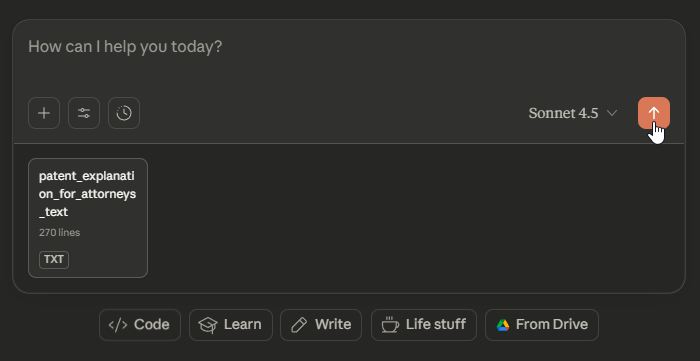
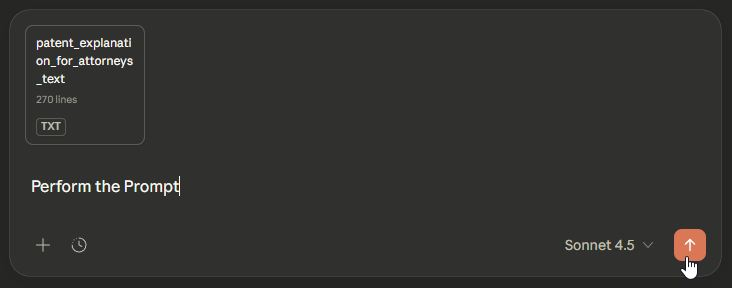
Fix Linux deployment: Add proxy env vars and improve documentation
- Fixed linux_setup.sh: Added PFW_PROXY_PORT and ENABLE_ALWAYS_ON_PROXY to env
- Fixed validation-helpers.sh: Simplified key detection to work across all MCPs
- Updated INSTALL.md: Improved Linux installation instructions with n8n examples
- Updated PROMPTS.md: Added 'Perform the Prompt' instruction (Step 5)
- Added n8n screenshots: n8n_PFW_1.jpg, n8n_PFW_2.jpg, n8n_PFW_3.jpg
- Updated Prompts-Step5.jpg to reflect new workflow

Bug fixes:
- Proxy server now starts correctly with proper port configuration
- Cross-MCP API key detection now works (reads files directly instead of Python imports)

diff --git a/INSTALL.md b/INSTALL.md
@@ -210,7 +210,7 @@ During the Windows setup, you'll be presented with two configuration methods:
 - ⚡ **Direct Python execution with built-in secure storage**
 - ✅ **No PowerShell execution policy requirements**
 
-**Example Configuration Generated:**
+**Example Quick Start Windows DPAPI Configuration Generated:**
 
 ```json
 {
@@ -220,7 +220,8 @@ During the Windows setup, you'll be presented with two configuration methods:
       "args": ["-m", "patent_filewrapper_mcp.main"],
       "cwd": "C:/Users/YOUR_USERNAME/uspto_pfw_mcp",
       "env": {
-        "PROXY_PORT": "8080"
+        "PROXY_PORT": "8080",
+        "INTERNAL_AUTH_SECRET": "[RANDOM GENERATED SHARED SECRET ACROSS ALL AUTHOR'S USPTO MCPS]"
       }
     }
   }
@@ -234,7 +235,7 @@ During the Windows setup, you'll be presented with two configuration methods:
 - ⚡ **Direct Python execution**
 - ✅ **Simpler setup**
 
-**Example Configuration Generated:**
+**Example Quick Start Windows Traditional Configuration Generated:**
 
 ```json
 {
@@ -428,7 +429,7 @@ Checking MCP server health...
 uspto_pfw: uv --directory /USER/uspto_pfw_mcp run patent-filewrapper-mcp - ✓ Connected
 ```
 
-**Example Configuration Generated:**
+**Example Quick Start Linux Configuration Generated:**
 
 ```json
 {
@@ -443,9 +444,8 @@ uspto_pfw: uv --directory /USER/uspto_pfw_mcp run patent-filewrapper-mcp - ✓ C
         "patent-filewrapper-mcp"
       ],
       "env": {
-        "USPTO_API_KEY": "your_actual_api_key_here",
-        "MISTRAL_API_KEY": "your_mistral_api_key_here_OPTIONAL",
-        "PROXY_PORT": "8080"
+        "PROXY_PORT": "8080",
+        "ENABLE_ALWAYS_ON_PROXY": "true"
       }
     }
   }
@@ -499,7 +499,13 @@ For workflow automation with **locally hosted n8n instances**, you can integrate
 
    n8n MCP Configuration Example
 
-   ![n8n Patent File Wrapper Interface](documentation_photos/n8n_PFW.jpg)
+   **Environment Variables Configuration (Installed using Linux Quick Start Script):**
+
+   ![n8n PFW Environment Variables](documentation_photos/n8n_PFW_1.jpg)
+
+   **Complete Configuration with API Keys (When installed using traditional PIP Install):**
+
+   ![n8n Patent File Wrapper Interface](documentation_photos/n8n_PFW_2.jpg)
 
    - **Connection Type**: `Command-line Based Transport (STDIO)`
    - **Command**: `/home/YOUR_USERNAME/uspto_pfw_mcp/.venv/bin/patent-filewrapper-mcp` (see below step 4 on how to get)
@@ -532,14 +538,18 @@ For workflow automation with **locally hosted n8n instances**, you can integrate
    Use this full path as your command in the n8n MCP configuration.
 
 5. **Add MCP Client Node:**
+
    - In n8n workflow editor, add "MCP Client (STDIO) API" node
    - Select your configured credentials
    - Choose operation (List Tools, Execute Tool, etc.)
 
 6. **Test Connection:**
+
+   ![n8n Execute Tool Operation](documentation_photos/n8n_PFW_3.jpg)
+
    - Use "List Tools" operation to see available USPTO PFW functions
-   - Use "Execute Tool" operation with `pfw_search_applications_minimal`
-   - Parameters example: `{"query": "artificial intelligence", "limit": 5}`
+   - Use "Execute Tool" operation with `search_applications_minimal`
+   - Parameters example: `{"query": "patentNumber:10701173"}`
 
 ### Example n8n Workflow Use Cases
 
@@ -768,7 +778,8 @@ Then use this Claude Desktop config:
       ],
       "env": {
         "USPTO_API_KEY": "your_actual_api_key_here",
-        "MISTRAL_API_KEY": "your_mistral_api_key_here_OPTIONAL"
+        "MISTRAL_API_KEY": "your_mistral_api_key_here_OPTIONAL",
+        "PROXY_PORT": "8080"
       }
     }
   }

diff --git a/PROMPTS.md b/PROMPTS.md
@@ -28,7 +28,7 @@ This document details the sophisticated prompt templates included with the USPTO
 
    ![Step 4 - Fill in parameters](documentation_photos/Prompts-Step4.jpg)
 
-5. **Execute** - Claude will automatically run the complete workflow
+5. **Execute - (Recommendation: Type in "Perform the Prompt" before hitting Execute)** - Claude will automatically run the complete workflow
 
    ![Step 5 - Execute workflow](documentation_photos/Prompts-Step5.jpg)
 
